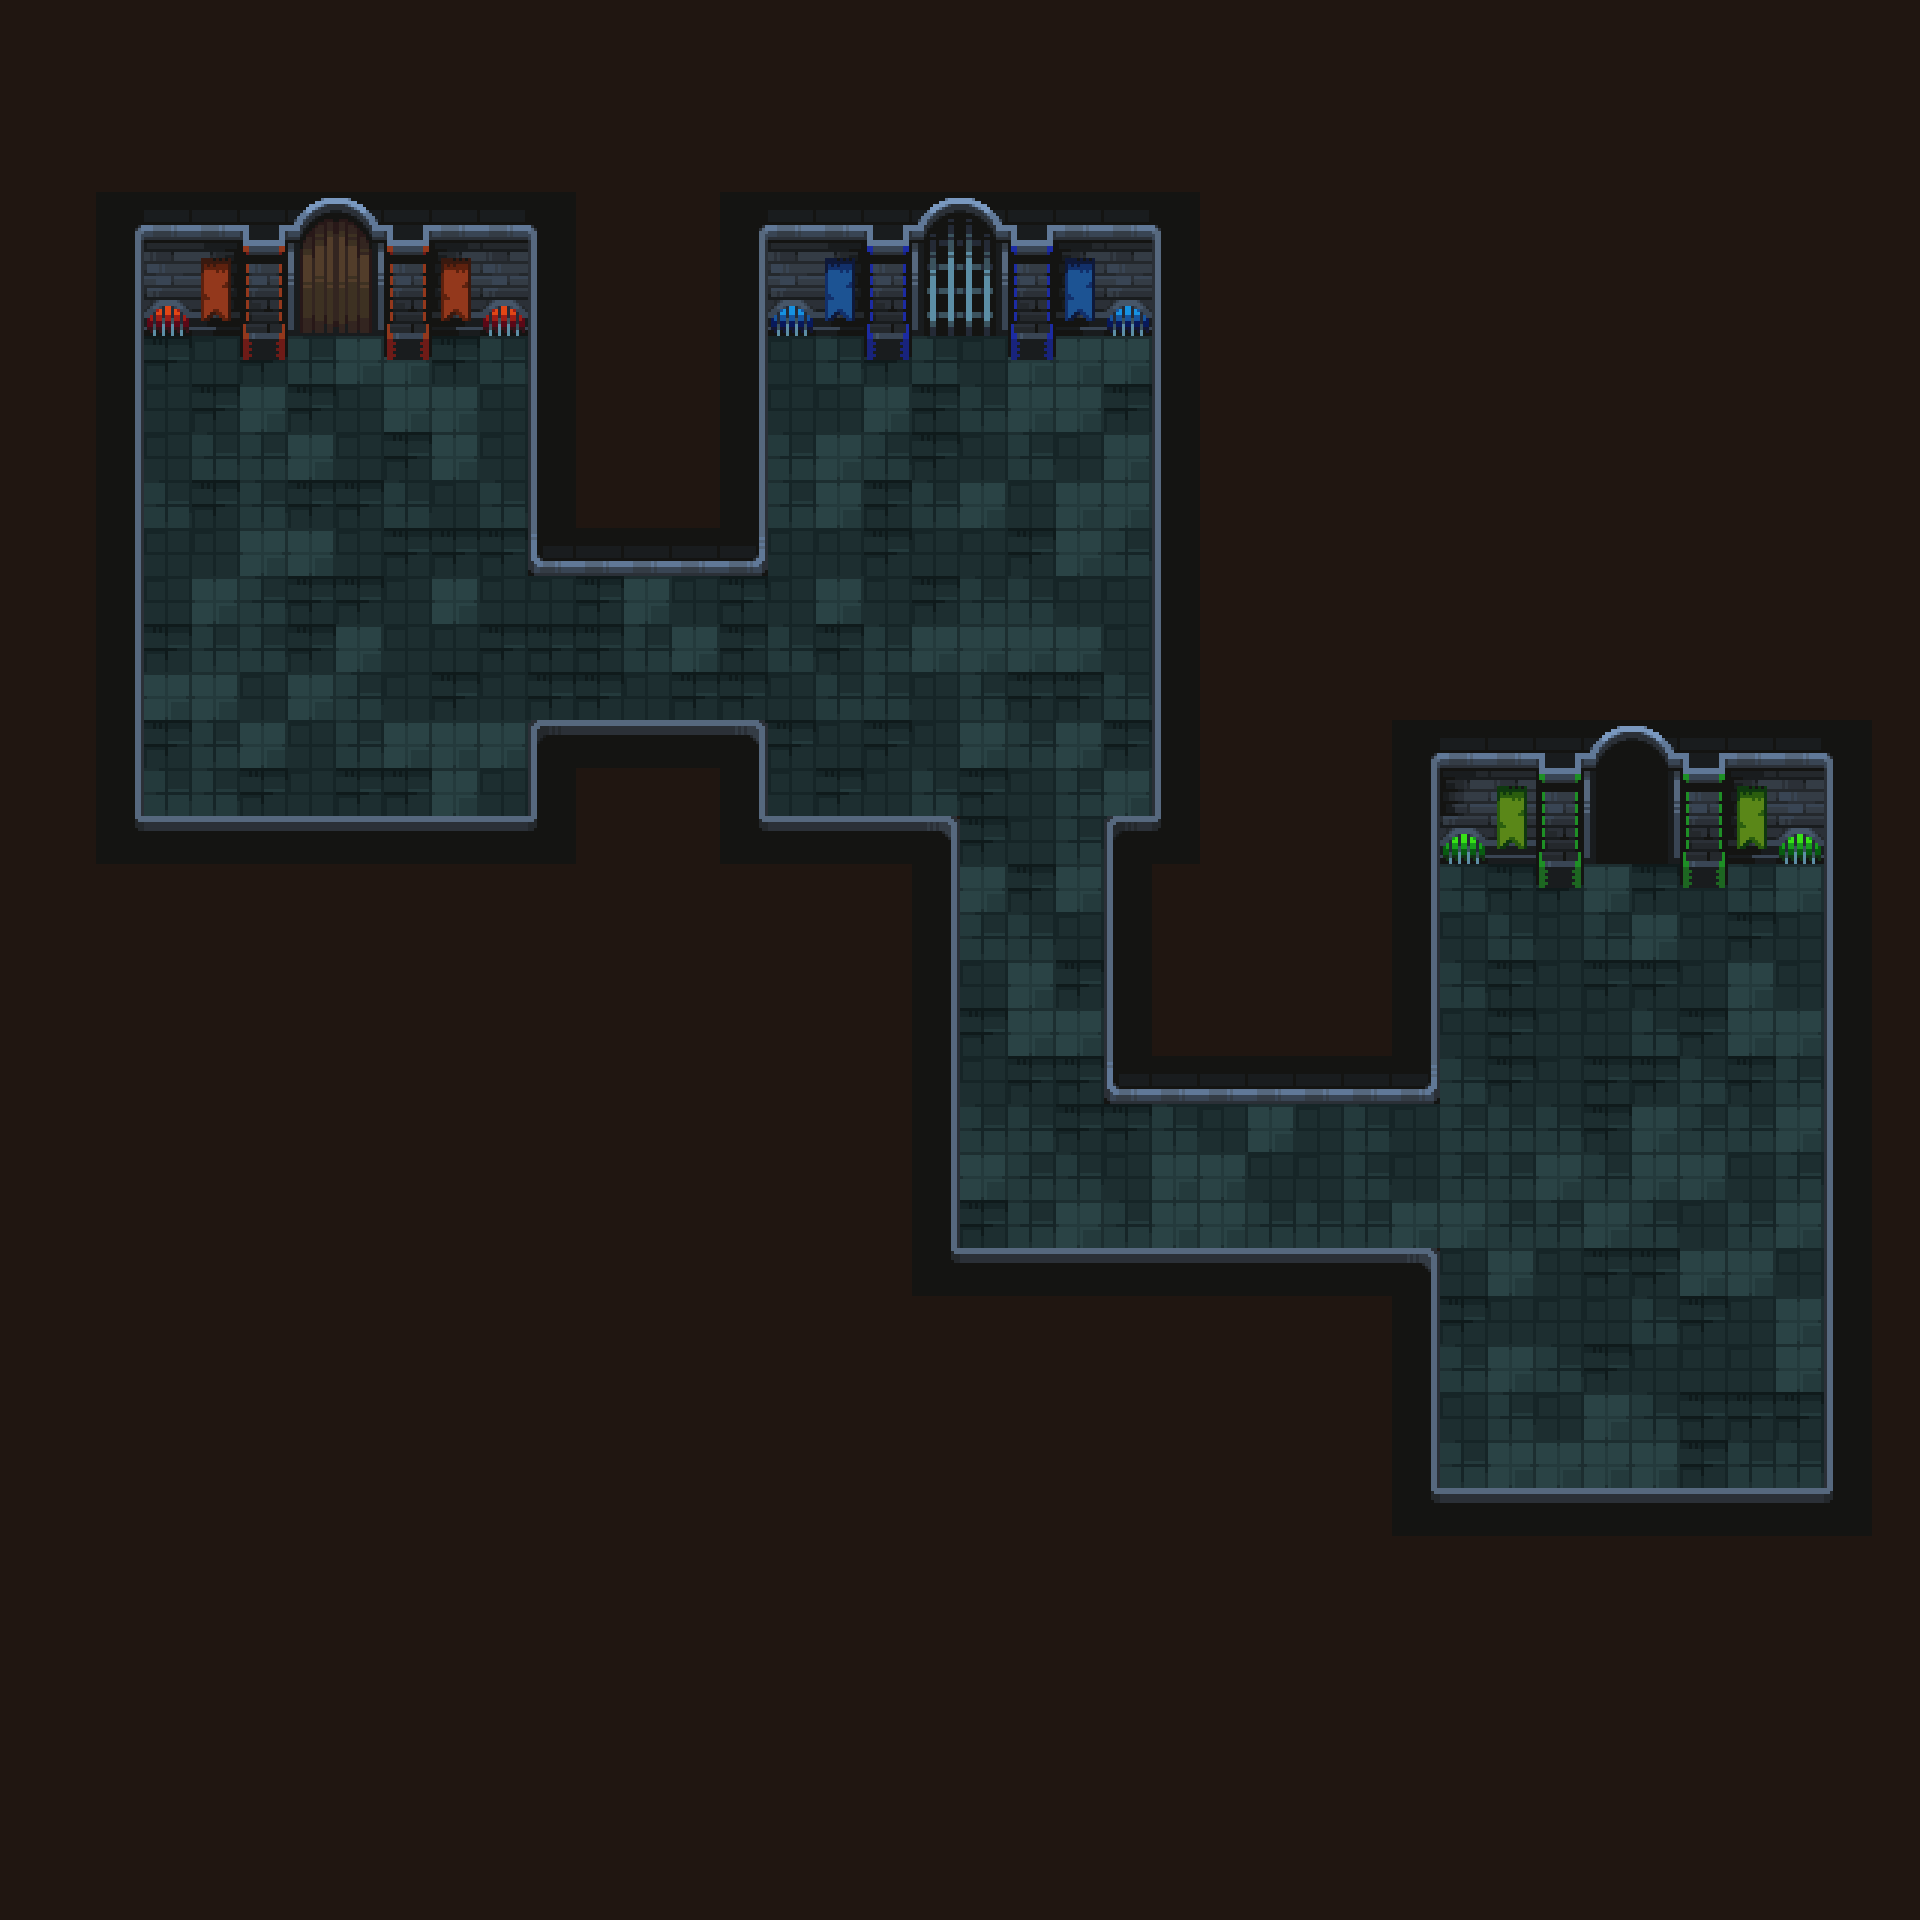
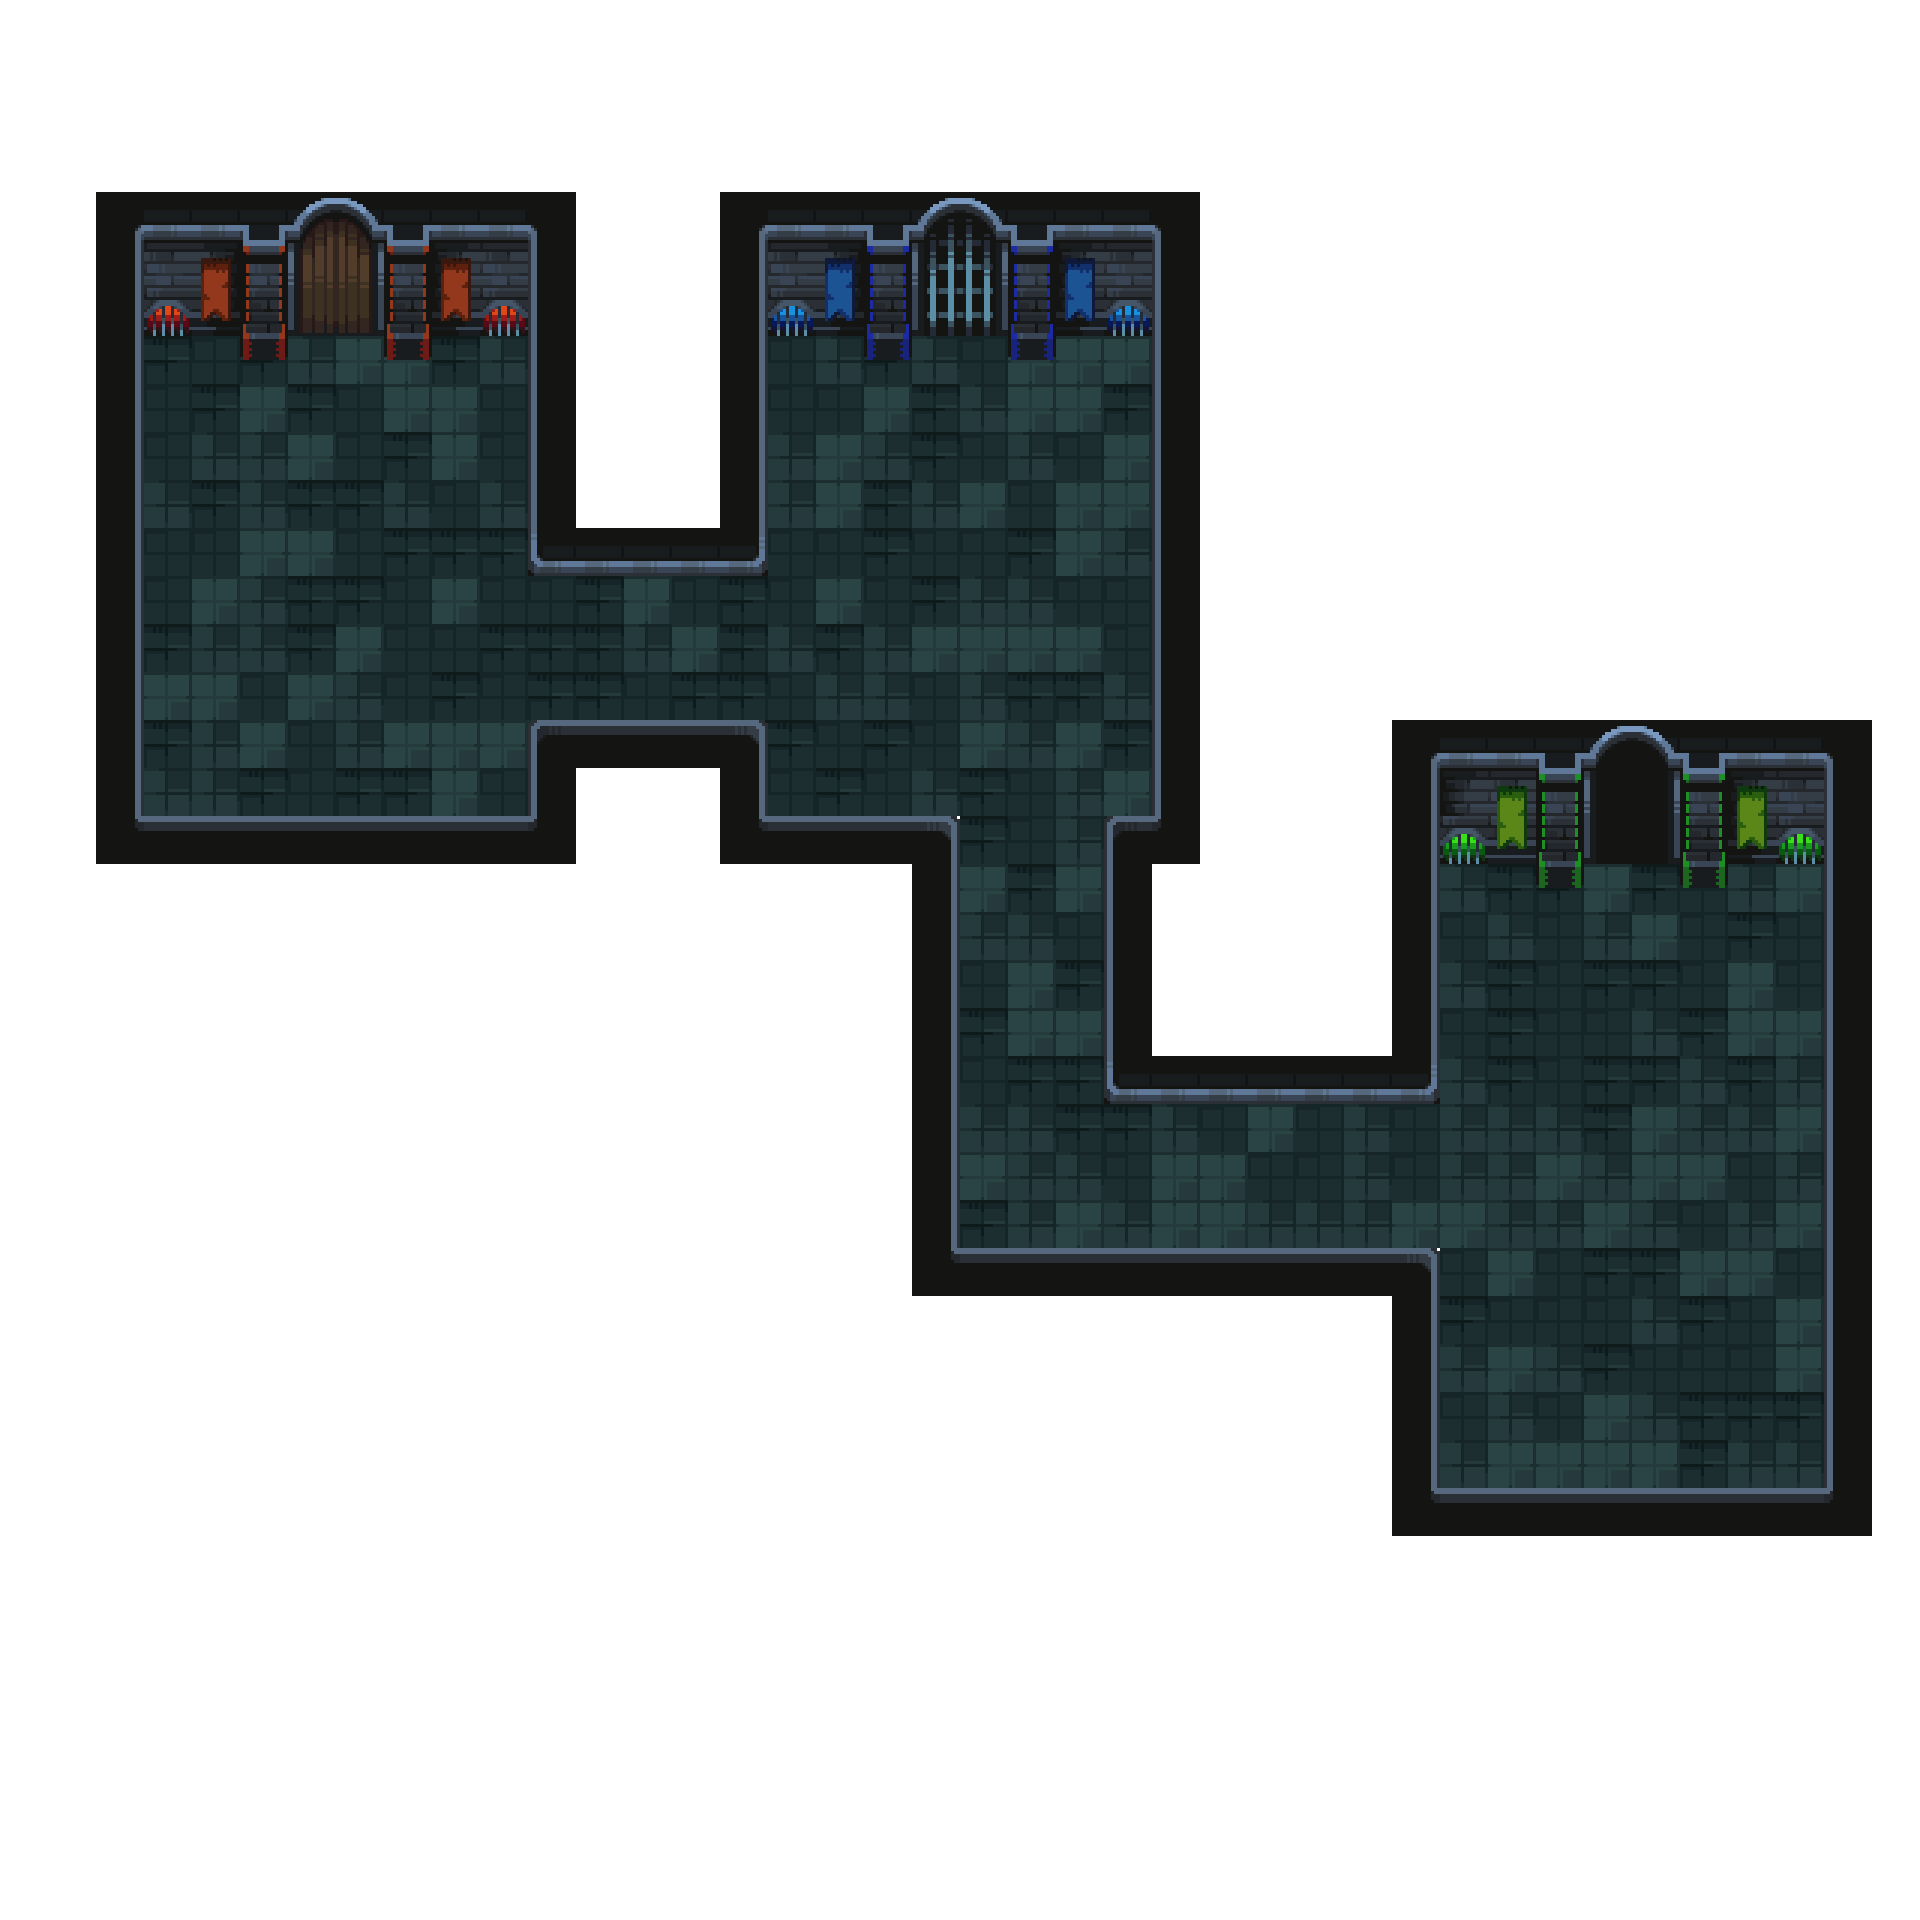
gamepad fullscreen mode toggler/sound bugs fixes/sprites adjustments/centering pixi.app and new page background

diff --git a/src/ContactMe.ts b/src/ContactMe.ts
@@ -8,14 +8,23 @@ export const ContactMe = (app : Application) => {
         app.stage.addChild(contactContainer)
         const background : Sprite = Sprite.from("contact")
         contactContainer.addChild(background)
+        let textOffsetY = -150
         
         contactContainer.pivot.set(contactContainer.width/2,contactContainer.height/2)
         contactContainer.position.set(app.screen.width/2,app.screen.height/2)
         if(isMobile.any){
             contactContainer.scale.set(.5, .5)
+            textOffsetY = -300
         }else{
-            contactContainer.scale.set(1.5,1.5)
+            contactContainer.scale.set(.8,.8)
         }
+
+      
+        const copyText = new Text("Skopiowano do schowka", {fontFamily : "font", fontSize: "20px", fill : "white"})
+        copyText.name = "copyMessage"
+        copyText.anchor.set(.5,.5)
+        copyText.position.set(background.width/2, textOffsetY)
+        
 
         const pageTitle : Text = new Text("Kontakt", {fontFamily: "font"})
         pageTitle.position.set(background.width/2, 100)
@@ -36,7 +45,15 @@ export const ContactMe = (app : Application) => {
         copyPhoneNumber.position.set(background.width*.8, background.height*.4)
         copyPhoneNumber.eventMode = 'dynamic'
         copyPhoneNumber.on("pointerdown", () => {
-            copyToClipboard("+48531328180")
+            const copied = copyToClipboard("+48531328180")
+            if(copied == true){
+                if(!contactContainer.getChildByName("copyMessage")){
+                    contactContainer.addChild(copyText)
+                    setTimeout(() => {
+                        contactContainer.removeChild(copyText)
+                    },2000)
+                }               
+            }
         })
         copyPhoneNumber.on("mouseenter", () => {
             copyPhoneNumber.scale.set(.15, .15)
@@ -53,7 +70,15 @@ export const ContactMe = (app : Application) => {
         copyEmail.position.set(background.width*.8, background.height*.65)
         copyEmail.eventMode = 'dynamic'
         copyEmail.on("pointerdown", () => {
-            copyToClipboard("dominiklenko@gmail.com")
+            const copied = copyToClipboard("dominiklenko@gmail.com")
+            if(copied == true){
+                if(!contactContainer.getChildByName("copyMessage")){
+                    contactContainer.addChild(copyText)
+                    setTimeout(() => {
+                        contactContainer.removeChild(copyText)
+                    },2000)
+                }               
+            }
         })
         copyEmail.on("mouseenter", () => {
             copyEmail.scale.set(.15, .15)

diff --git a/src/globalFunctions.ts b/src/globalFunctions.ts
@@ -1,5 +1,5 @@
-import { Assets, Text } from "pixi.js";
-import { Sound } from "@pixi/sound"
+import { Text } from "pixi.js";
+import { sound } from "@pixi/sound"
 
 
 
@@ -8,17 +8,14 @@ export const writeMessage = (msg : string, textInstance : Text) => {
     let currentMessage = ""
     let i = 0;
 
-    const click = Sound.from(Assets.get("keySound"))
-    click.singleInstance = true;
-    click.speed = .2
-
     const writing =(i : number) => {
         if(!textInstance.dirty){
             currentMessage = msg.substring(0, i)
-            click.play()
+            //console.log(currentMessage);
+            sound.play("keySound", {singleInstance : true})
             textInstance.text = currentMessage 
         }else{
-            click.stop()
+            sound.stop("keySound")
             clearInterval(interval)
         }
 
@@ -26,16 +23,17 @@ export const writeMessage = (msg : string, textInstance : Text) => {
     const interval = setInterval(() => {
         i++
         writing(i)
-        console.log(textInstance.dirty);
+        //console.log(textInstance.dirty);
         if(i == msg.length){
-            click.stop()
+            sound.stop("keySound")
             clearInterval(interval);
         }
-    }, 50)    
+    }, 80)    
    
 }
 
 export const copyToClipboard = (msg : string) => {
+    let success : boolean = false;
     const element = document.createElement("textarea")
     element.value = msg
     document.body.appendChild(element)
@@ -45,9 +43,11 @@ export const copyToClipboard = (msg : string) => {
     try{
         document.execCommand('copy');
         //navigator.clipboard.writeText(msg)
+        success = true;
     }catch (err) {
             console.error('Unable to copy to clipboard', err);
+            success = false;
     }
     document.body.removeChild(element);
-    alert("skopiowano")
+    return success
 }

diff --git a/src/Main.ts b/src/Main.ts
@@ -17,7 +17,8 @@ type colliderPosition = {
 
 export const Main = (app : Application) => {
 
-    sound.play('backgroundSound')
+    
+    sound.play("backgroundSound", {loop : true})
     
 	if(isMobile.android.phone){
 		
@@ -35,7 +36,7 @@ export const Main = (app : Application) => {
     player.scale.set(3,3);
     player.animationSpeed = .2;
     const background = Sprite.from(Assets.get('mapa'))
-    background.position.set(400,100)
+    background.position.set(0,-150)
 
     const colliderArray = Assets.get("mapData").layers[4]
     const colliderMap = []
@@ -64,7 +65,7 @@ export const Main = (app : Application) => {
         interactionMap.forEach((row, index) => {
             row.forEach((value : number, indexX : number) => {
                 if(value == 254){
-                    interactions.push(new Collider({x: indexX * 48 + 400, y: index * 48 + 100}, 96, 96))
+                    interactions.push(new Collider({x: indexX * 48 + 0, y: index * 48 - 150}, 96, 96))
                 }
             })
         })
@@ -84,7 +85,7 @@ export const Main = (app : Application) => {
         colliderMap.forEach((row, index) => {
             row.forEach((value : number, indexX : number) => {
                 if(value === 876){
-                    collisions.push(new Collider({x: indexX * 48 + 400, y: index * 48 + 100}, 48, 48));
+                    collisions.push(new Collider({x: indexX * 48 + 0, y: index * 48 + -150}, 48, 48));
                 }
             })
         });
@@ -218,6 +219,14 @@ export const Main = (app : Application) => {
 
         const gamePad = new GamePad(app);
         gamePad.add(keys)
+/*
+        if(document.fullscreenEnabled){
+            gamePad.fullScreenVersion()
+        }
+*/
+        document.body.addEventListener("fullscreenchange", () => {
+            gamePad.fullScreenVersion()
+        })
 
     }
 

diff --git a/src/GamePad.ts b/src/GamePad.ts
@@ -1,4 +1,4 @@
-import { Application, Graphics, Text, TextStyle} from "pixi.js"
+import { Application, Container, Graphics, Text, TextStyle} from "pixi.js"
 
 export type Keys = {
     w : {
@@ -21,8 +21,12 @@ export type Keys = {
 export class GamePad {
 
     app : Application
+    buttonsContainer : Container
+    toggler : boolean
     constructor(app : Application){
-        this.app = app;
+        this.app = app,
+        this.buttonsContainer = new Container()
+        this.toggler = false
     }
 
     add(keys : Keys){
@@ -114,14 +118,25 @@ export class GamePad {
             keys.d.isClicked = false;
         })
 
-        this.app.stage.addChild(btnUp)
-        this.app.stage.addChild(btnDown)
-        this.app.stage.addChild(btnLeft)
-        this.app.stage.addChild(btnRight)
-        this.app.stage.addChild(dText)
-        this.app.stage.addChild(aText)
-        this.app.stage.addChild(wText)
-        this.app.stage.addChild(sText)
+        this.buttonsContainer.addChild(btnUp)
+        this.buttonsContainer.addChild(btnDown)
+        this.buttonsContainer.addChild(btnLeft)
+        this.buttonsContainer.addChild(btnRight)
+        this.buttonsContainer.addChild(dText)
+        this.buttonsContainer.addChild(aText)
+        this.buttonsContainer.addChild(wText)
+        this.buttonsContainer.addChild(sText)
+
+        this.app.stage.addChild(this.buttonsContainer)
+    }
+
+    fullScreenVersion(){
+        if(this.toggler == false){
+            this.buttonsContainer.y += 50
+        }else{
+            this.buttonsContainer.y -= 50
+        }
+        this.toggler = !this.toggler         
     }
 
 }

diff --git a/src/LoadingScreen.ts b/src/LoadingScreen.ts
@@ -52,13 +52,12 @@ export const LoadingScreen = (app : Application) => {
     loadingScreenContainer.addChild(rectange4)
 
     const loadingTicker = new Ticker;
-    let wait : boolean = false;
     let ticks = 0;
     loadingTicker.add(() => {
 
         ticks++
         
-        if(loadingProgress == 1 && wait == true){
+        if(loadingProgress == 1){
             rectange.destroy()
             rectange2.destroy()
             rectange3.destroy()
@@ -109,11 +108,8 @@ export const LoadingScreen = (app : Application) => {
             fontFamily: "font",
             fill: "white"
         }
-        setTimeout(() => {
-            wait = true;
-            playText.eventMode = 'dynamic'
-            
-        }, 3000)
+        
+        playText.eventMode = "dynamic"
 
         playText.on('pointerdown', () => {
             // full screen not supported on ios
@@ -125,6 +121,7 @@ export const LoadingScreen = (app : Application) => {
                     console.log("Full Screen mode rejected");
                 })
             }else{
+                loadingScreenContainer.destroy()
                 Main(app)
             }
         })

diff --git a/src/Skills.ts b/src/Skills.ts
@@ -25,7 +25,7 @@ export const Skills = (app : Application) => {
         const background : Sprite = Sprite.from('contact')
         skillsContainer.addChild(background)
 
-        const title : Text = new Text("Tech Stack", {fontSize : "40px", fontFamily : "font"})
+        const title : Text = new Text("Tech Stack", {fontSize : "35px", fontFamily : "font"})
         title.anchor.set(.5,.5)
         title.position.set(background.width/2, 100)
 
@@ -34,7 +34,7 @@ export const Skills = (app : Application) => {
         if(utils.isMobile.any){
             skillsContainer.scale.set(.5, .5)
         }else{
-            skillsContainer.scale.set(1.5,1.5)
+            skillsContainer.scale.set(.8,.8)
         }
 
         let xPosition : number = 75

diff --git a/src/index.ts b/src/index.ts
@@ -2,8 +2,8 @@ import { Application, isMobile} from 'pixi.js'
 import { LoadingScreen } from './LoadingScreen';
 
 if(isMobile.any === false){
-	window.innerHeight = window.innerHeight
-	window.innerWidth = window.innerHeight
+	window.innerHeight = window.innerHeight * .95
+	window.innerWidth = window.innerHeight * .95
 }
 
 console.log(window.screen.orientation);
@@ -12,7 +12,7 @@ console.log(window.screen.orientation);
 const app = new Application({
 	view: document.getElementById("pixi-canvas") as HTMLCanvasElement,
 	resolution: devicePixelRatio || 1,
-	backgroundColor: 0x201611,
+	backgroundColor: 0x010F32,
 	autoDensity: true,
 	width: window.innerWidth,
     height: window.innerHeight,

diff --git a/src/AboutMe.ts b/src/AboutMe.ts
@@ -7,8 +7,8 @@ export const AboutMe = (app : Application) => {
         const titleStyle : TextStyle = new TextStyle({fontFamily: "font", fontWeight: "bold", fontSize: "40px"})
         const messageStyle : TextStyle = new TextStyle({fontFamily: "font", fontWeight: "bold", fontSize: "20px"})
     
-        let scaleValueX : number = .75;
-        let scaleValueY : number = .75;
+        let scaleValueX : number = .5;
+        let scaleValueY : number = .5;
     
         let offsetX : number = 0;
         let offsetY : number = 0;

diff --git a/src/Collider.ts b/src/Collider.ts
@@ -15,7 +15,7 @@ export class Collider {
 	}
 
 	add(){
-		this.rect.beginFill([0, 1, 0, 1]);
+		this.rect.beginFill([0, 1, 0, 0]);
 		this.rect.drawRect(this.position.x, this.position.y, this.width, this.height);
 		this.rect.endFill();
 		this.container.addChild(this.rect);
